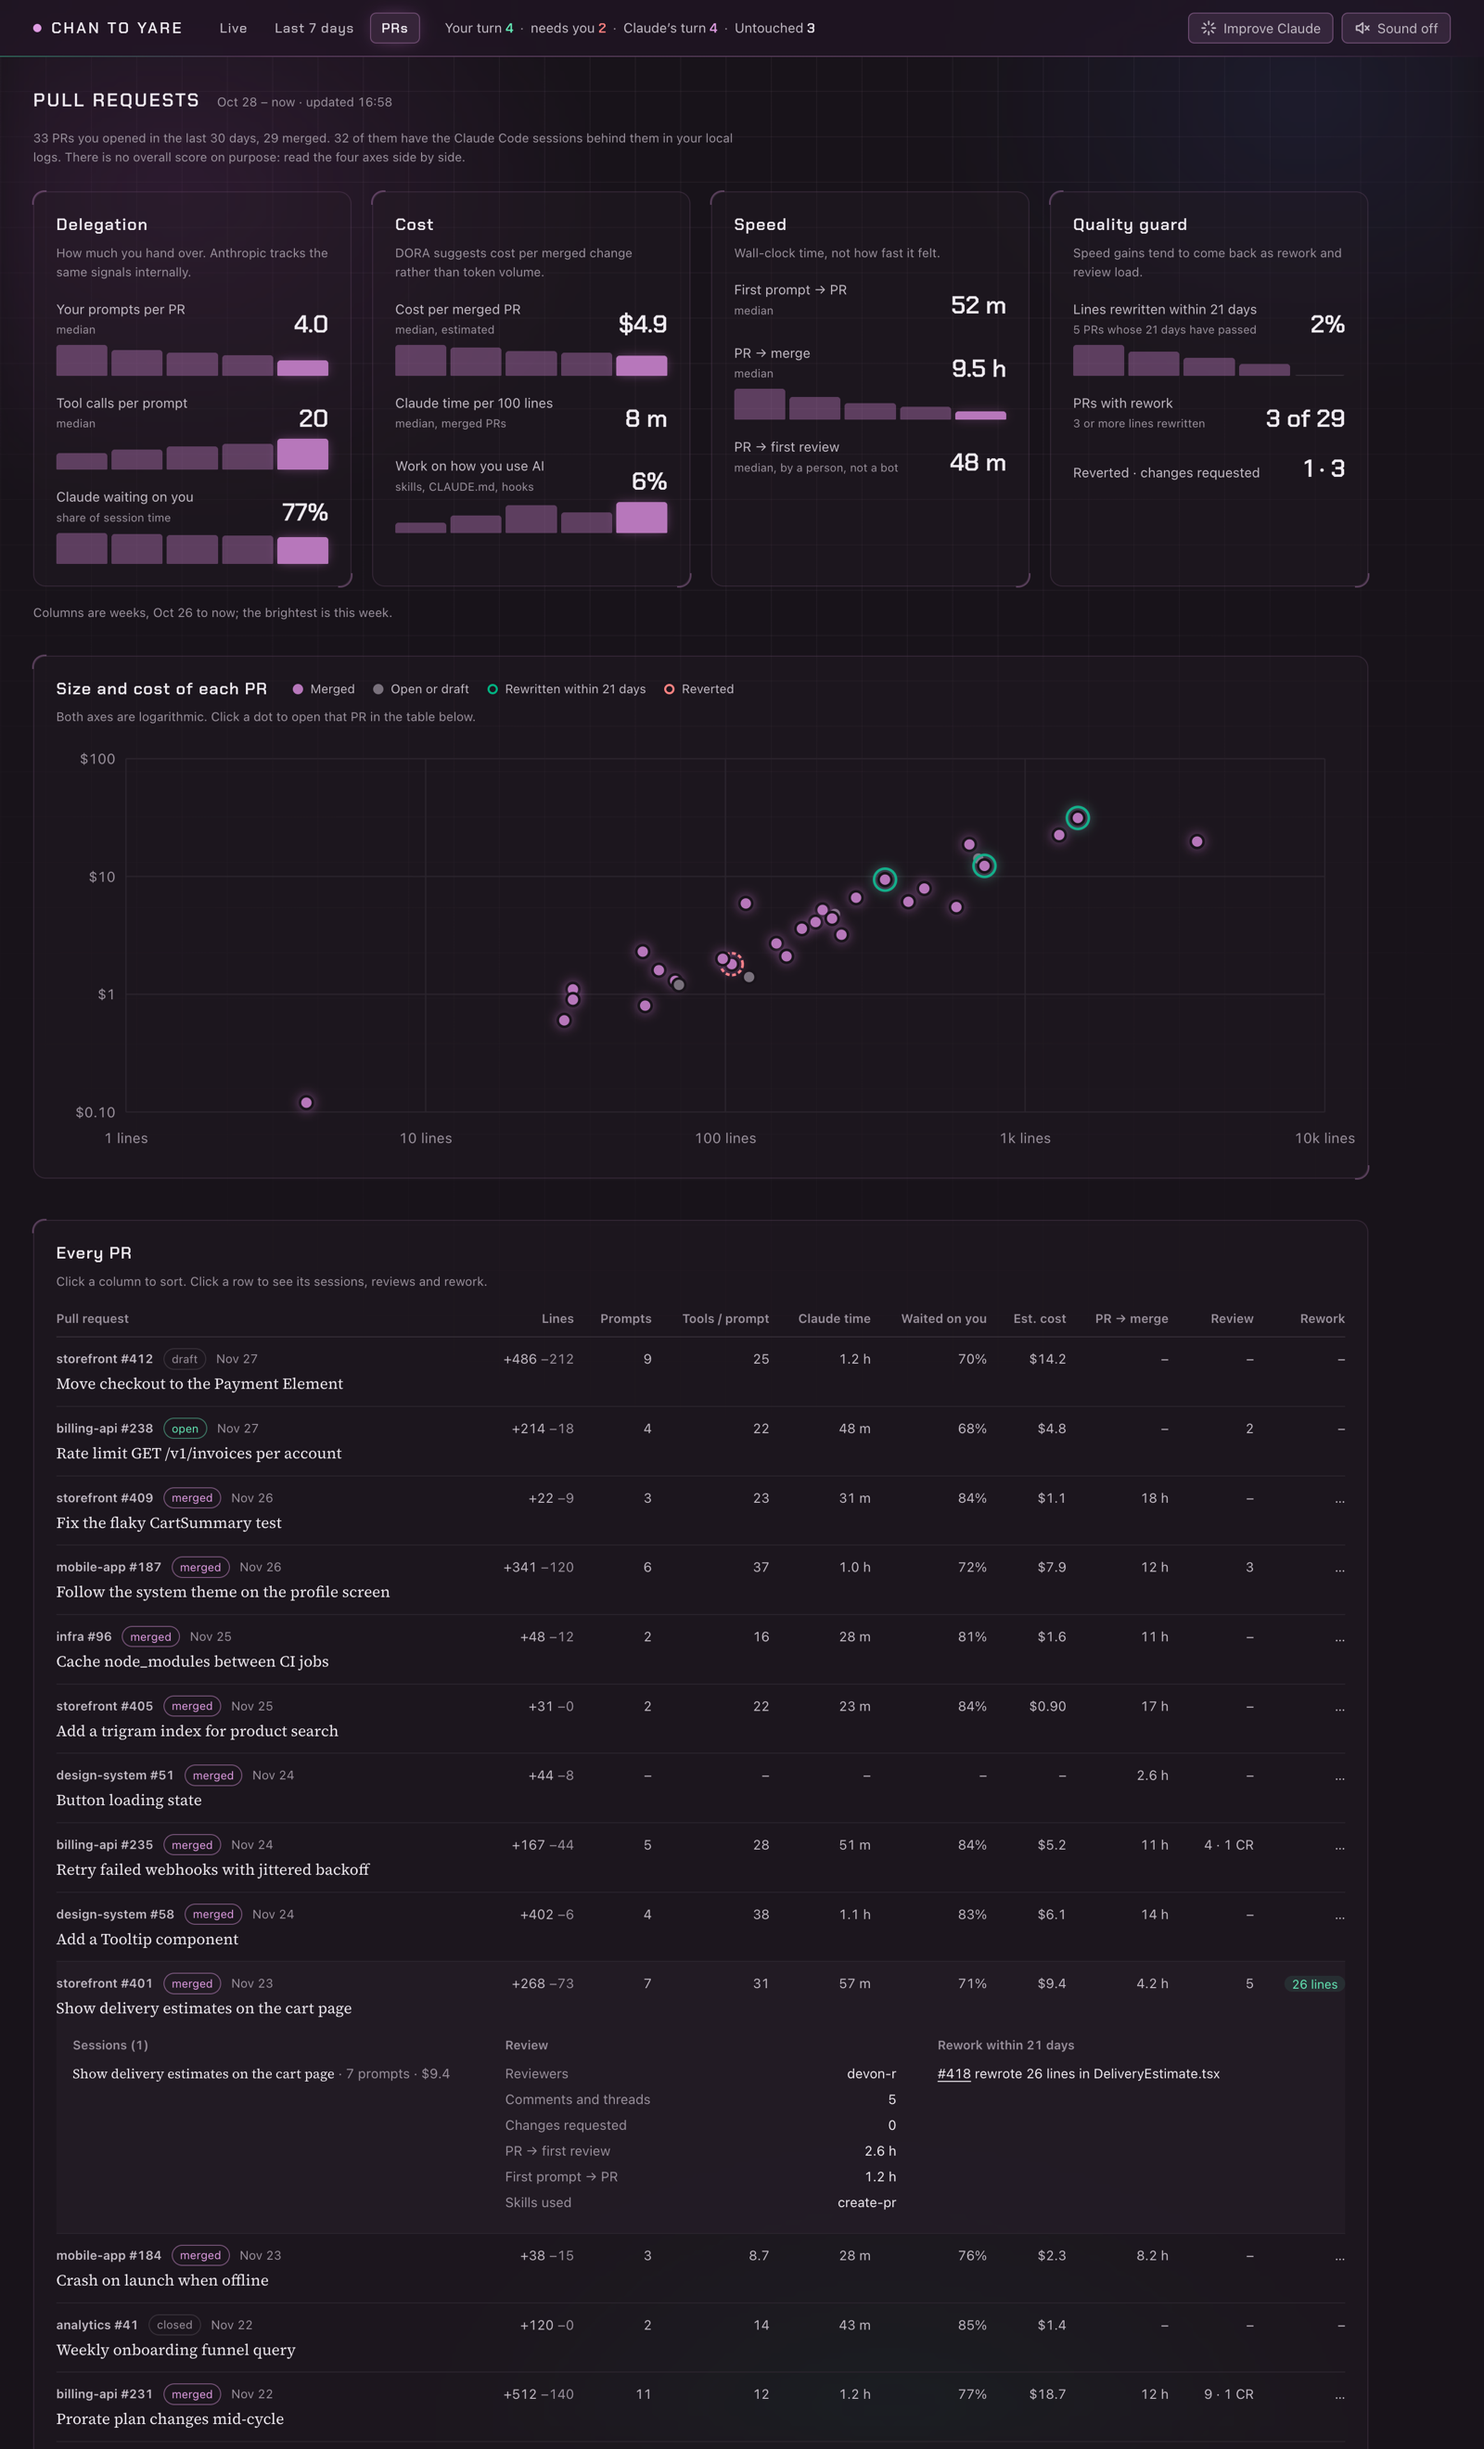
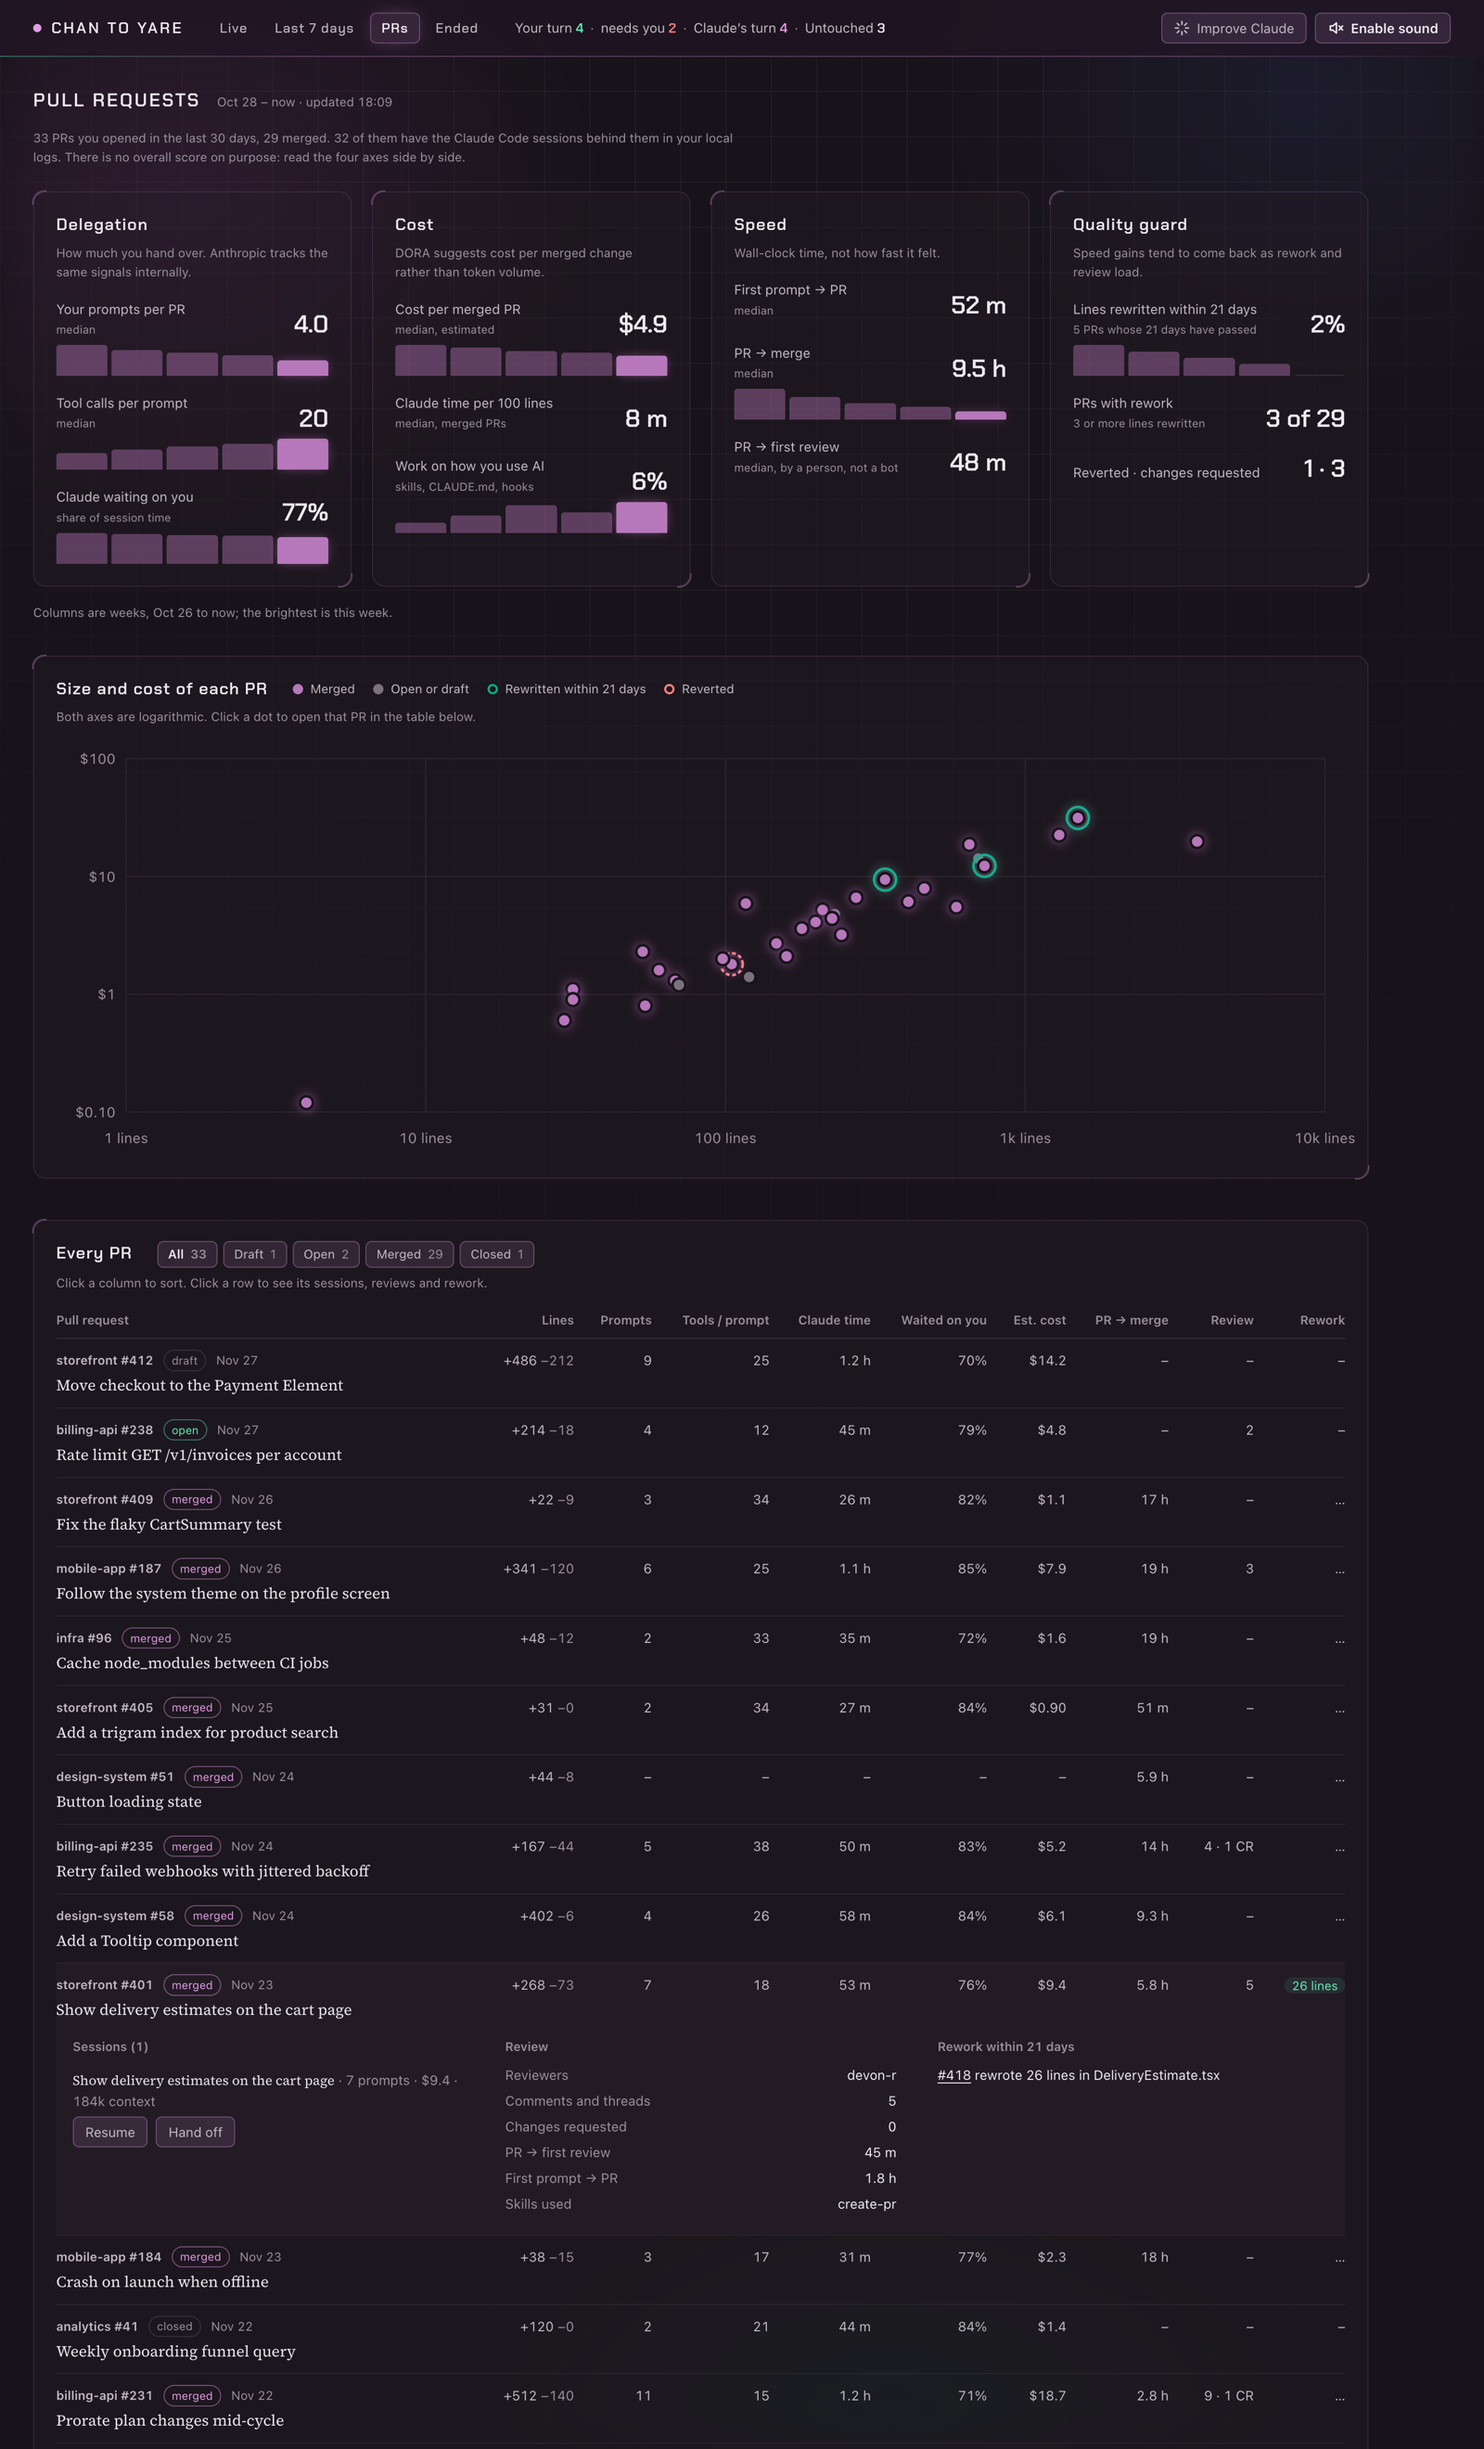
docs: README のキャプチャをダミーデータで撮り直し、Ended の画像を足す

diff --git a/README.md b/README.md
@@ -63,9 +63,12 @@ The name is Japanese for "do it properly."
 - Every PR you opened in the last 30 days, next to the Claude Code sessions behind it.
 - Four axes side by side, with no overall score: delegation, cost, speed, and quality guard.
 - A size and cost plot that marks PRs rewritten within 21 days or reverted.
+- Filter the table by state: draft, open, merged, or closed.
 - Open a row to see its sessions, reviews, and the PRs that rewrote its lines.
 
 ### Ended
+
+![The Ended view with a search box and Resume and Hand off buttons on each ended session](assets/screenshots/ended.png)
 
 - Every session from the last 31 days that is no longer running, newest first.
 - Search what you asked, titles, repositories, branches and PRs (`#123`), with Japanese and full-width spaces.

diff --git a/HACKING.md b/HACKING.md
@@ -60,7 +60,8 @@ The current images were taken at 1440 px wide, 2x, in dark mode, with
 do not show half done. A full-page capture can still catch the week chart
 mid-animation, so set the viewport to the page height and capture the
 viewport instead. Live has the "Rate limit the invoices endpoint" row
-open, and PRs has `storefront #401` open and is cut off at 2376 px. The
+open, PRs has `storefront #401` open and is cut off at 2376 px, and Ended
+shows the full list with an empty search box (no focus ring). The
 notification button was hidden and sound was set to off, since both
 only show their attention state in a browser. They were then scaled to 1600 px wide
 (`sips --resampleWidth 1600`) and saved in `assets/screenshots/`.
